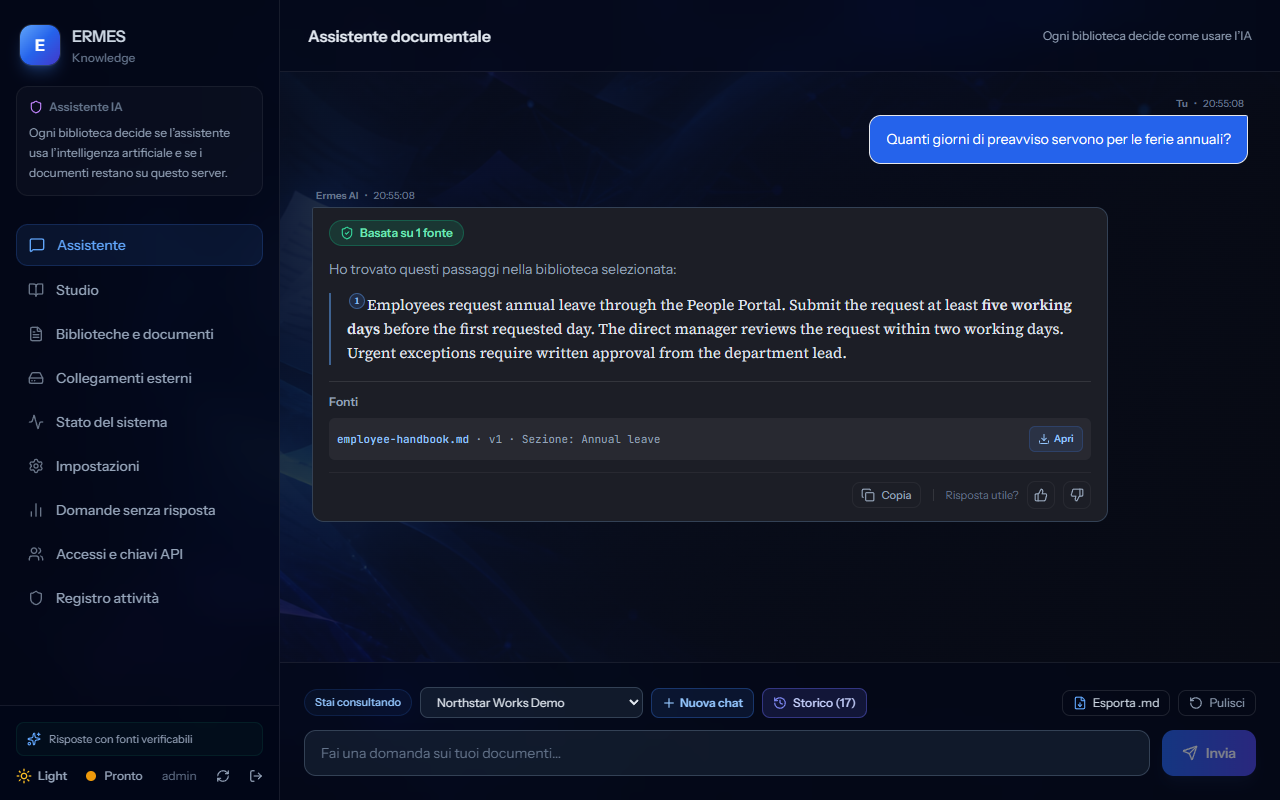
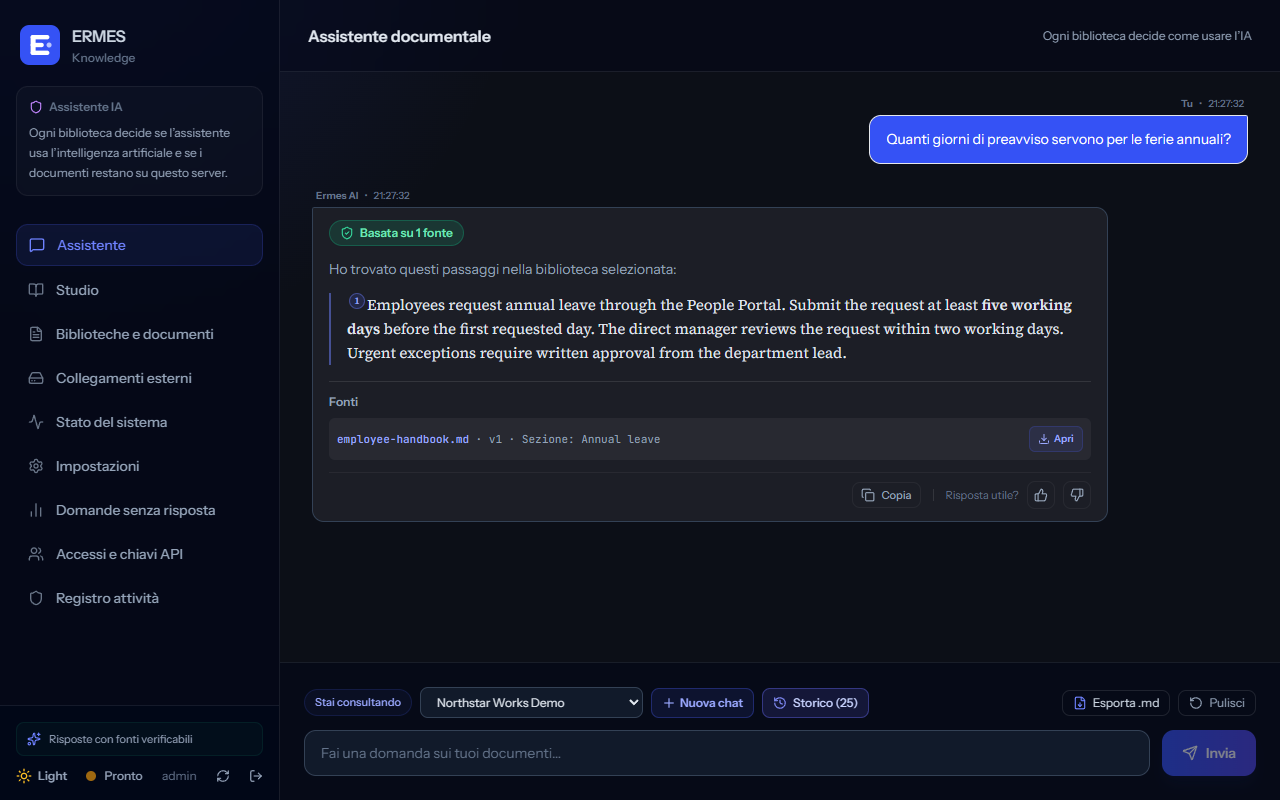
design: brand mark (E of text lines + citation dot), ultramarine palette, flat sober background; remove unused template assets

diff --git a/frontend/src/App.tsx b/frontend/src/App.tsx
@@ -20,6 +20,7 @@ import type { HealthStatus, Message, TabId } from './types'
 import { beginLogin, completeLogin, isCallback, type OidcConfig } from './lib/oidc'
 import { errorMessage } from './lib/errors'
 import { PanelSkeleton } from './components/ui/Skeleton'
+import { BrandMark } from './components/ui/BrandMark'
 
 type LibrarySummary = { id: string; name: string; document_count?: number }
 
@@ -375,7 +376,7 @@ function AppInner() {
     return <main className={`ermes-app-shell ermes-grid flex min-h-screen items-center justify-center p-6 ${t.bg}`}>
       <div className="grid w-full max-w-5xl overflow-hidden rounded-3xl border border-slate-200 bg-white/90 shadow-2xl shadow-slate-300/50 dark:border-white/10 dark:bg-[#121722]/85 dark:shadow-slate-950/40 ermes-glass lg:grid-cols-[1.05fr_.95fr]">
         <section className="hidden min-h-[34rem] flex-col justify-between border-r border-slate-200 dark:border-white/[0.08] bg-gradient-to-br from-blue-600/10 via-slate-100/40 to-indigo-500/10 dark:from-blue-600/20 dark:via-slate-950/20 dark:to-indigo-500/10 p-10 lg:flex">
-          <div><div className="flex h-12 w-12 items-center justify-center rounded-2xl bg-gradient-to-br from-blue-400 to-indigo-600 text-xl font-bold text-white shadow-lg shadow-blue-500/30">E</div><p className="mt-12 text-xs font-bold text-blue-300">ERMES Knowledge</p><h1 className="mt-4 max-w-md text-4xl font-semibold leading-tight tracking-tight text-slate-900 dark:text-white">La conoscenza aziendale, finalmente consultabile.</h1><p className="mt-5 max-w-md text-sm leading-6 text-slate-300">Organizza documenti, cerca passaggi e ottieni risposte legate alle fonti originali.</p></div>
+          <div><BrandMark className="h-12 w-12" /><p className="mt-12 text-xs font-bold text-blue-300">ERMES Knowledge</p><h1 className="mt-4 max-w-md text-4xl font-semibold leading-tight tracking-tight text-slate-900 dark:text-white">La conoscenza aziendale, finalmente consultabile.</h1><p className="mt-5 max-w-md text-sm leading-6 text-slate-300">Organizza documenti, cerca passaggi e ottieni risposte legate alle fonti originali.</p></div>
           <div className="space-y-3 text-sm text-slate-300"><p className="flex items-center gap-3"><ShieldCheck className="h-4 w-4 text-emerald-400" />I documenti restano nella tua azienda</p><p className="flex items-center gap-3"><Sparkles className="h-4 w-4 text-blue-300" />Ogni risposta dice da quale documento viene</p></div>
         </section>
         <form onSubmit={handleLogin} className="flex min-h-[34rem] w-full flex-col justify-center p-7 sm:p-10">

diff --git a/frontend/src/index.css b/frontend/src/index.css
@@ -36,14 +36,8 @@ body {
 }
 
 .ermes-app-shell {
-  background-color: #0b0e16;
-  background-image:
-    linear-gradient(115deg, rgba(7, 10, 20, 0.88) 0%, rgba(10, 14, 27, 0.76) 48%, rgba(8, 11, 21, 0.9) 100%),
-    radial-gradient(900px circle at 8% -10%, rgba(37, 99, 235, 0.2), transparent 42%),
-    url('/assets/ermes-knowledge-atmosphere.png');
-  background-position: center;
-  background-size: cover;
-  background-attachment: fixed;
+  background-color: #0c0f17;
+  background-image: radial-gradient(1000px circle at 6% -14%, rgba(53, 82, 245, 0.16), transparent 46%);
 }
 
 /* Variante chiara: senza questa regola lo sfondo scuro qui sopra restava anche
@@ -51,9 +45,8 @@ body {
 html:not(.dark) .ermes-app-shell {
   background-color: #f6f8fc;
   background-image:
-    radial-gradient(1100px circle at 6% -12%, rgba(59, 130, 246, 0.10), transparent 46%),
-    radial-gradient(900px circle at 100% 0%, rgba(139, 92, 246, 0.06), transparent 42%),
-    linear-gradient(180deg, #fbfcfe 0%, #f1f5fa 100%);
+    radial-gradient(1000px circle at 6% -14%, rgba(53, 82, 245, 0.08), transparent 46%),
+    linear-gradient(180deg, #fbfcfe 0%, #f3f5fa 100%);
 }
 
 html:not(.dark) .ermes-grid {
@@ -133,7 +126,7 @@ html:not(.dark) .text-blue-200,
 html:not(.dark) .hover\:text-blue-200:hover,
 html:not(.dark) .text-blue-300,
 html:not(.dark) .hover\:text-blue-300:hover,
-html:not(.dark) .text-blue-400 { color: #1d4ed8; }
+html:not(.dark) .text-blue-400 { color: #2a40d6; }
 html:not(.dark) .text-emerald-200,
 html:not(.dark) .hover\:text-emerald-200:hover,
 html:not(.dark) .text-emerald-300,

diff --git a/frontend/src/components/ui/BrandMark.tsx b/frontend/src/components/ui/BrandMark.tsx
@@ -1,0 +1,27 @@
+/**
+ * Il segno di Ermes: una "E" i cui bracci sono righe di testo, come un documento,
+ * e un puntino accanto al braccio centrale, il segnaposto di una citazione.
+ * Racconta il prodotto in un segno: righe di un documento, e il punto da cui
+ * una risposta rimanda alla sua fonte.
+ *
+ * Stessa geometria di `public/favicon.svg` e delle icone dell'app installabile.
+ */
+export function BrandMark({ className = 'h-10 w-10', title }: { className?: string; title?: string }) {
+  return (
+    <svg
+      viewBox="0 0 64 64"
+      className={className}
+      role={title ? 'img' : undefined}
+      aria-label={title}
+      aria-hidden={title ? undefined : true}
+      focusable="false"
+    >
+      <rect width="64" height="64" rx="15" fill="#3552f5" />
+      <rect x="17" y="16" width="8" height="32" rx="4" fill="#fff" />
+      <rect x="17" y="16" width="30" height="7" rx="3.5" fill="#fff" />
+      <rect x="17" y="28.5" width="21" height="7" rx="3.5" fill="#fff" />
+      <rect x="17" y="41" width="30" height="7" rx="3.5" fill="#fff" />
+      <circle cx="46.5" cy="32" r="4" fill="#b9c4ff" />
+    </svg>
+  )
+}

diff --git a/frontend/src/components/layout/Sidebar.tsx b/frontend/src/components/layout/Sidebar.tsx
@@ -1,3 +1,4 @@
+import { BrandMark } from '../ui/BrandMark'
 import { Sun, Moon, MessageSquare, BookOpen, FileText, Activity, Settings, Users, Shield, RefreshCw, Sparkles, BarChart2, HardDrive, LogOut } from 'lucide-react'
 import { useTheme } from '../../hooks/useTheme'
 import type { TabId } from '../../types'
@@ -46,9 +47,7 @@ export default function Sidebar({ activeTab, onTabChange, healthStatus, onRefres
     >
       {/* Title */}
       <div className="px-5 pt-6 pb-5 flex items-center gap-3">
-        <div className="w-10 h-10 rounded-xl bg-gradient-to-br from-blue-400 via-blue-600 to-indigo-700 flex items-center justify-center shadow-lg shadow-blue-500/30 ring-1 ring-white/10">
-          <span className="text-white font-bold text-base">E</span>
-        </div>
+        <BrandMark className="h-10 w-10 shrink-0 drop-shadow-sm" />
         <div>
           <h1 className={`text-base font-semibold tracking-tight ${t.sidebarTitle}`}>ERMES</h1>
           <p className={`text-xs mt-0.5 ${t.sidebarLabel} font-medium `}>Knowledge</p>

diff --git a/frontend/tailwind.config.js b/frontend/tailwind.config.js
@@ -21,6 +21,12 @@ export default {
         mono: ['"JetBrains Mono Variable"', 'ui-monospace', 'SFMono-Regular', 'Consolas', 'monospace'],
       },
       colors: {
+        // Oltremare: il colore di cio' che e' interattivo e delle citazioni.
+        // (Il verde resta "supportato da un documento", l'ambra "nessuna fonte".)
+        blue: {
+          50: '#eef1ff', 100: '#dfe5ff', 200: '#c3ccff', 300: '#9aa8ff', 400: '#6e82ff',
+          500: '#4a61ff', 600: '#3552f5', 700: '#2a40d6', 800: '#2536ab', 900: '#232f87', 950: '#151b50',
+        },
         brand: {
           dark: '#0f1225',
           darker: '#0a0c16',

diff --git a/frontend/src/components/Admin/AuditLogs.tsx b/frontend/src/components/Admin/AuditLogs.tsx
@@ -81,7 +81,7 @@ export default function AuditLogs({ showNotif }: { showNotif: (m: string, t: 'su
     <Card>
       <div className="flex flex-wrap items-center justify-between gap-3">
         <CardTitle>
-          <ShieldCheck className="w-5 h-5 text-emerald-400" /> Audit Log Crittografico (SHA-256 Chained)
+          <ShieldCheck className="w-5 h-5 text-emerald-400" /> Registro di audit a catena (SHA-256)
         </CardTitle>
         <div className="flex items-center gap-2">
           <button

diff --git a/CHANGELOG.md b/CHANGELOG.md
@@ -2,6 +2,13 @@
 
 Registro leggibile del lavoro su questo progetto. Per i finding tecnici completi, [docs/AUDIT_2026-08-19.md](docs/AUDIT_2026-08-19.md) e [docs/CODE_REVIEW.md](docs/CODE_REVIEW.md). La roadmap per fasi e il registro delle sessioni (`ROADMAP_V2.md`, `WORK_PROGRESS.md`) sono stati tolti dall'albero pubblico il 18 settembre 2026: la cronologia Git li conserva.
 
+## 2026-10-19 (2) — Segno e palette: Ermes ha un logo e un colore suoi
+
+- **Il segno**: una "E" i cui bracci sono righe di testo, come un documento, con un puntino accanto al braccio centrale: il segnaposto di una citazione. Il primo tentativo (tre righe senza costola) somigliava all'icona di un menu; la costola verticale lo rende una E. Sostituisce il quadratino sfumato con una "E" qualunque nella barra laterale, nell'accesso, nella favicon, nelle icone dell'app installabile e nel README (`components/ui/BrandMark.tsx`, stessa geometria di `public/favicon.svg`).
+- **Oltremare**: il blu predefinito di Tailwind è sostituito da una scala propria (`#3552f5` al 600) per tutto ciò che è interattivo e per le citazioni. La semantica resta quella che già funzionava: verde = supportato da un documento, ambra = nessuna fonte, blu = azione o fonte. I contrasti in chiaro e scuro passano l'audit axe.
+- **Fondo sobrio**: via la fotografia di carte al neon (1,4 MB, e un'aria da prodotto IA qualunque); al suo posto un fondo piatto con un solo bagliore. L'applicazione compilata passa da 2,6 a 1,0 MB. Rimossi anche i file del modello iniziale mai usati (`hero.png`, `react.svg`, `vite.svg`, `icons.svg`).
+- "Audit Log Crittografico (SHA-256 Chained)" diventa "Registro di audit a catena (SHA-256)".
+
 ## 2026-10-19 — Una voce per il documento, una per il sistema: nuova identità visiva
 
 Rivista l'interfaccia con due criteri: le linee guida web (audit meccanico del codice) e una direzione di design legata al prodotto invece del "kit SaaS" (schede identiche arrotondate, etichette in maiuscolo spaziato sopra ogni titolo, gradienti blu-indaco, Inter).
